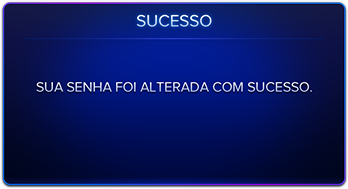
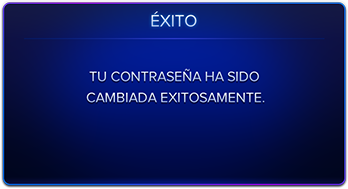
Account頁面 提示框

Changed region(s): [[0.0862, 0.3439, 0.9195, 0.5556], [0.3736, 0.0529, 0.6322, 0.1587]]

diff --git a/src/app/component/account/account.component.html b/src/app/component/account/account.component.html
@@ -1,7 +1,7 @@
 <div class="root-base setting-bg">
   <div class="flex-container">
     <div class="row-flex no-margin no-padding setting-top">
-      <span *ngIf="false" class="title">{{ 'account.title' | translate }}</span>
+      <span *ngIf="false" class="title">ˊ'account.title' | translate }}</span>
       <picture class="titleImg">
         <source class="titleImg" [srcset]="'account.titleImg' | translate">
         <img class="titleImg" [srcset]="'account.titleImg' | translate" />
@@ -12,9 +12,6 @@
       </a>
     </div>
   </div>
-
-
-
 
   <div class="main-content">
     <!-- 頁籤 -->
@@ -47,7 +44,7 @@
             <label for="submitBtn" class="d-inline-block">
               <input hidden id="submitBtn" type="button" value="SAVE">
               <img draggable="false" [srcset]="'account.saveImgNormal' | translate" class="form-btn-base"
-                (click)     ="btnSound('sound_pressbtn04');submitClicked();"
+                (click)     ="btnSound('sound_pressbtn04'); submitClicked();"
                 (mousedown) ="setSavePressed($event)"
                 (touchstart)="setSavePressed($event)"
                 (mouseup)   ="setSaveNormal($event)"
@@ -59,7 +56,7 @@
             <label for="resetBtn" class="d-inline-block">
               <input hidden id="resetBtn" type="button" value="CANCEL">
               <img draggable="false" [srcset]="'account.cancelImgNormal' | translate" class="form-btn-base"
-                (click)     ="btnSound('sound_pressbtn05');resetClicked();"
+                (click)     ="btnSound('sound_pressbtn05'); resetClicked();"
                 (mousedown) ="setCancelPressed($event)"
                 (touchstart)="setCancelPressed($event)"
                 (mouseup)   ="setCancelNormal($event)"
@@ -70,4 +67,26 @@
         </div>
       </form>
     </div>
+    <div *ngIf="successPrompt || errorPrompt" id="alert" class="alert">
+        <div class="position-relative d-flex justify-content-center">
+          <img id="confirmBtn" [srcset] = "'account.confirmBtnNormal' | translate" 
+            (click)      = "btnSound('sound_pressbtn05'); closePrompt();"
+            (mousedown)  = "setConfirmPressed($event)"
+            (touchstart) = "setConfirmPressed($event)"
+            (mouseup)    = "setConfirmNormal($event)"
+            (touchend)   = "setConfirmNormal($event)"
+            (mouseleave) = "setConfirmNormal($event)"
+          />        
+          
+          <picture style="width:95%;" *ngIf="successPrompt">
+            <source style="width:100%" [srcset]="('account.successPrompt' | translate)+'.webp'" type="image/webp" />
+            <img style="width:100%" [srcset]="'account.successPrompt' | translate" />
+          </picture>
+          <picture style="width:95%;" *ngIf="errorPrompt">
+              <source style="width:100%" [srcset]="('account.errorPrompt' | translate)+'.webp'" type="image/webp" />
+              <img style="width:100%" [srcset]="'account.errorPrompt' | translate" />
+            </picture>
+        </div>
+      </div>
 </div>
+

diff --git a/src/app/component/account/account.component.ts b/src/app/component/account/account.component.ts
@@ -12,6 +12,11 @@ import { FetchService } from './../../services/fetch.service';
 export class AccountComponent implements OnInit {
 
   public currentPassword;
+  public successPrompt;
+  public errorPrompt;
+  public picAccountSuccess;
+  public picAccountError;
+  public confirmBtn;
   private password;
   private confirm;
   constructor(public translate: TranslateService, private auth: AuthGuardService, private fetch: FetchService) {}
@@ -20,6 +25,11 @@ export class AccountComponent implements OnInit {
     this.currentPassword = this.auth.decrypt( sessionStorage.getItem('Password') );
     this.password = document.getElementById('password');
     this.confirm = document.getElementById('confirm');
+    this.picAccountSuccess = this.translate.instant('account.successPrompt');
+    this.picAccountError = this.translate.instant('account.errorPrompt');
+    this.picAccountError = this.translate.instant('account.errorPrompt');
+    this.successPrompt = false;
+    this.errorPrompt = false;
   }
 
   setSaveNormal(e: Event) {
@@ -42,6 +52,16 @@ export class AccountComponent implements OnInit {
     self.setAttribute('srcset' , this.translate.instant('account.cancelImgPressed'));
   }
 
+  setConfirmPressed(e: Event) {
+    const self = e.currentTarget as HTMLElement;
+    self.setAttribute('srcset' , this.translate.instant('account.confirmBtnPressed'));
+  }
+
+  setConfirmNormal(e: Event) {
+    const self = e.currentTarget as HTMLElement;
+    self.setAttribute('srcset' , this.translate.instant('account.confirmBtnNormal'));
+  }
+
   resetClicked() {
     this.password.value = null;
     this.confirm.value = null;
@@ -49,15 +69,25 @@ export class AccountComponent implements OnInit {
 
   submitClicked() {
     if (this.password.value.length === 0 || this.confirm.value.length === 0) {
-      window.alert('Form doesn\'t finish');
+      this.errorPrompt = true;
       return;
     }
 
     if (this.password.value === this.confirm.value) {
-      this.fetch.fetchChangePassword( this.password.value );
+      this.fetch.fetchChangePassword( this.password.value ).then( state => {
+          this.successPrompt = true;
+          console.log( state );
+        }).catch( error => {
+          this.errorPrompt = true;
+          console.log( error );
+      });
     } else {
-      window.alert('Not Match Password');
+      this.errorPrompt = true;
     }
+  }
+
+  closePrompt() {
+    [this.errorPrompt , this.successPrompt] = [false, false];
   }
 
   btnSound(soundName: string) {

diff --git a/src/app/services/fetch.service.ts b/src/app/services/fetch.service.ts
@@ -51,9 +51,9 @@ export class FetchService {
 
   fetchChangePassword( nextPassword ) {
     const formData = new FormData();
-    formData.append('oldPassword' , 'ggg3310');
-    formData.append('newPassword' , 'ggg3312');
-    fetch(`${Api.ChangePasswordApi}` , {
+    formData.append('oldPassword' , this.auth.getPassword());
+    formData.append('newPassword' , nextPassword);
+    return fetch(`${Api.ChangePasswordApi}` , {
         headers : new Headers({
           Authorization: `Bearer ${this.auth.getToken()}`,
           'Content-Type' : 'application/json'
@@ -64,13 +64,13 @@ export class FetchService {
           newPassword : nextPassword
         }),
         method : 'PUT'
-      })
-      .then( responser => {
-        window.alert('Success');
-      })
-      .catch(error => {
-        window.alert(error);
-    });
+      }).then( response => {
+        if (!response.ok) {
+          throw Error( response.statusText );
+        } else {
+          return response.json();
+        }
+      });
   }
 
   fetchAmount() {
@@ -88,7 +88,7 @@ export class FetchService {
       sessionStorage.setItem('amount', responseJSON.account.amount);
       this.userAmount$.next(responseJSON.account.amount);
       return responseJSON;
-    });
+    })
   }
 
   fetchGameList() {

diff --git a/src/app/component/account/account.component.scss b/src/app/component/account/account.component.scss
@@ -71,3 +71,28 @@ input[type="password"]
     }
   }
 }
+
+.alert
+{
+  position: absolute;
+  top:0;
+  left:0;
+  display: flex;
+  align-items: center;
+  justify-content: center;
+  padding: 0;
+  margin: 0;
+  z-index: 10;
+  width: 100%;
+  height: 100%;
+  background-color:rgba(0,0,0,0.4);
+
+  #confirmBtn
+  {
+    position: absolute;
+    left: 35%;
+    bottom: 8%;
+    width: 30%;
+    max-height: 10vh;
+  }
+}
